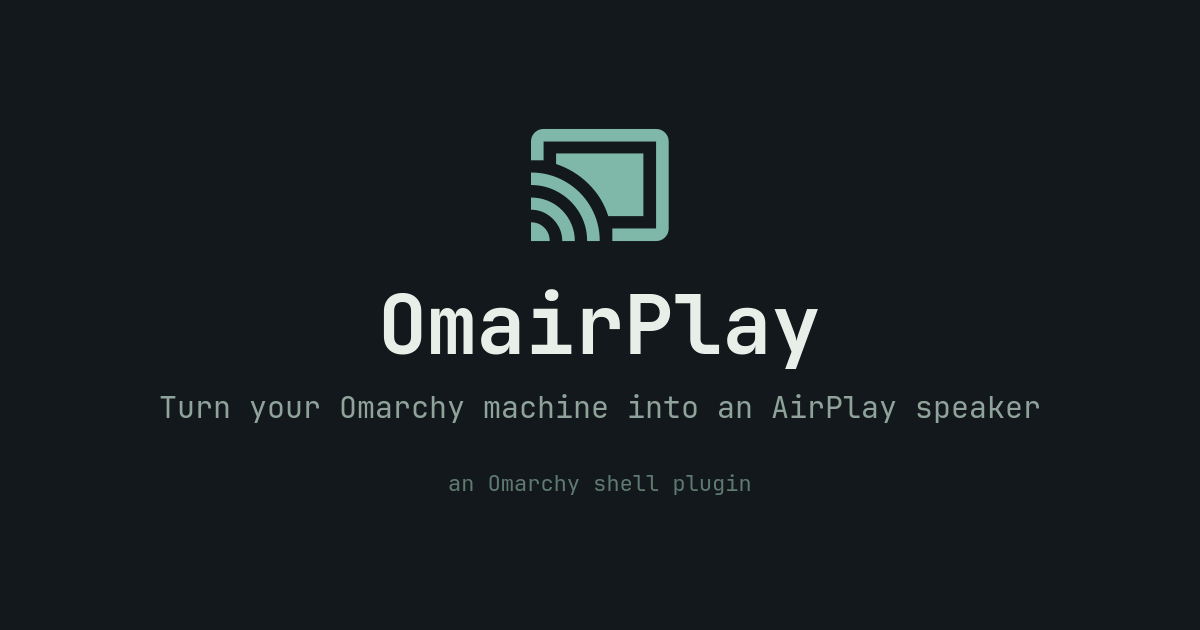
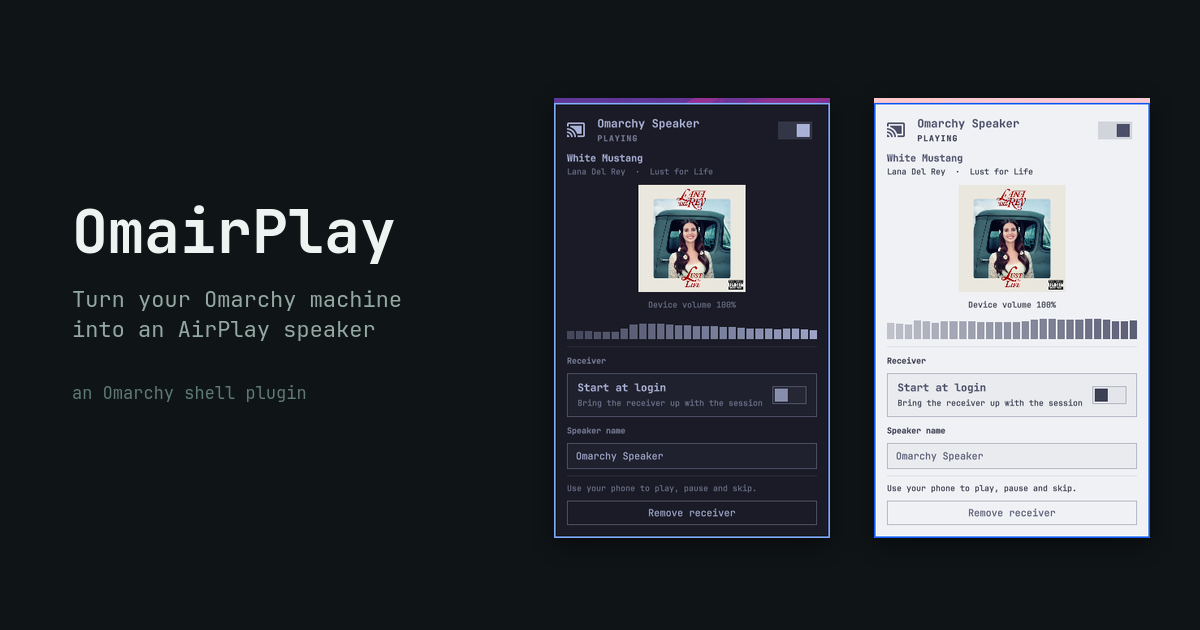
Add amplitude bar, polish docs

Changed region(s): [[0.0617, 0.1508, 0.9558, 0.8746], [0.0617, 0.3317, 0.3392, 0.4222]]

diff --git a/LevelMeter.qml b/LevelMeter.qml
@@ -1,0 +1,167 @@
+import QtQuick
+import Quickshell.Services.Pipewire
+import qs.Commons
+
+// A level meter driven by the receiver's actual audio.
+//
+// Deliberately a level *history* rather than a spectrum. Quickshell exposes
+// PwNodePeakMonitor, which gives amplitude — not frequency content — so bars
+// spread across a frequency axis would be invented data. The same reasoning
+// that keeps transport controls out of this plugin applies here: a graph that
+// looks like it means something it doesn't is worse than no graph. This shows
+// the last couple of seconds of real level, scrolling right to left.
+//
+// Lives in its own file, and entirely on the presentation side, because it is
+// gated on the popup being open — which is a widget concern, not session
+// state. Service.qml does not know or care that this exists.
+Item {
+  id: root
+
+  // Set false and the peak monitor is switched off, the timer stops and the
+  // history is cleared. Nothing here costs anything while the popup is shut.
+  property bool active: false
+  property color foreground: Color.foreground
+  property color accent: Color.accent
+
+  readonly property int barCount: 28
+  readonly property real barGap: Math.max(1, Style.space(2))
+
+  // Present only while the receiver is actually streaming: PipeWire creates the
+  // stream node when playback starts and drops it when it stops.
+  readonly property var streamNode: findStream()
+  readonly property bool live: active && streamNode !== null
+
+  implicitHeight: Style.space(26)
+  visible: live
+  opacity: live ? 1 : 0
+  Behavior on opacity { NumberAnimation { duration: 160; easing.type: Easing.OutQuad } }
+
+  property var levels: emptyLevels()
+  property real _smoothed: 0
+
+  // Peak is a linear amplitude, and peak over a 40ms window of music barely
+  // moves -- measured on a real AirPlay stream it sat between 0.38 and 0.65.
+  // Plotted linearly, or over a wide dB window, every bar comes out the same
+  // height. So map it the way audio meters do -- to decibels -- but over a
+  // deliberately narrow window, with a gamma that spreads the band music
+  // actually occupies across the full height:
+  //
+  //   peak 1.00 -> 1.00      peak 0.50 -> 0.40
+  //   peak 0.80 -> 0.78      peak 0.38 -> 0.24
+  //   peak 0.65 -> 0.60      below -18dB -> 0
+  //
+  // This is undulation, not a dancing spectrum. Those need frequency
+  // separation, and amplitude on its own cannot provide it.
+  readonly property real floorDb: -18
+  function normalise(peak) {
+    if (!(peak > 0)) return 0
+    var db = 20 * Math.log(Math.max(peak, 1e-4)) / Math.LN10
+    var n = (db - floorDb) / -floorDb
+    if (n < 0) n = 0
+    if (n > 1) n = 1
+    return Math.pow(n, 2.2)
+  }
+
+  function emptyLevels() {
+    var a = []
+    for (var i = 0; i < barCount; i++) a.push(0)
+    return a
+  }
+
+  // Match on anything that identifies shairport-sync, because which field
+  // carries the name depends on how the stream was created. Checked
+  // case-insensitively across the node's own labels and its PipeWire
+  // properties.
+  function looksLikeOurs(node) {
+    var candidates = [node.name, node.nickname, node.description]
+    var props = node.properties
+    if (props) {
+      candidates.push(props["application.name"],
+                      props["application.process.binary"],
+                      props["node.name"],
+                      props["media.name"])
+    }
+    for (var i = 0; i < candidates.length; i++) {
+      if (String(candidates[i] || "").toLowerCase().indexOf("shairport") !== -1)
+        return true
+    }
+    return false
+  }
+
+  function findStream() {
+    var nodes = Pipewire.nodes ? Pipewire.nodes.values : []
+    for (var i = 0; i < nodes.length; i++) {
+      var n = nodes[i]
+      if (!n || !n.isStream || !n.audio) continue
+      // For a stream, isSink means it feeds audio into the graph, i.e. playback.
+      if (n.isSink !== true) continue
+      if (looksLikeOurs(n)) return n
+    }
+    return null
+  }
+
+  // Without this the node's properties are not kept live by Quickshell. Same
+  // pattern the first-party audio panel and media service use.
+  PwObjectTracker { objects: root.streamNode ? [root.streamNode] : [] }
+
+  PwNodePeakMonitor {
+    id: peakMonitor
+    node: root.streamNode
+    enabled: root.live
+  }
+
+  // Sampled on a timer rather than bound to `peak`, so the bars are evenly
+  // spaced in time however often PipeWire happens to report.
+  Timer {
+    interval: 40
+    repeat: true
+    running: root.live
+    onTriggered: {
+      var p = peakMonitor.peak
+      if (!isFinite(p) || p < 0) p = 0
+      if (p > 1) p = 1
+      // Rise immediately, fall gently. That asymmetry is what makes a meter
+      // readable instead of a flicker.
+      var v = normalise(p)
+      root._smoothed = Math.max(v, root._smoothed * 0.82)
+      var next = root.levels.slice(1)
+      next.push(root._smoothed)
+      root.levels = next
+    }
+  }
+
+  onLiveChanged: if (!live) { levels = emptyLevels(); _smoothed = 0 }
+
+  Row {
+    anchors.fill: parent
+    spacing: root.barGap
+
+    Repeater {
+      model: root.barCount
+
+      Rectangle {
+        readonly property real level: {
+          var v = root.levels[index]
+          return (v === undefined || !isFinite(v)) ? 0 : Math.max(0, Math.min(1, v))
+        }
+        // A small floor so the strip reads as a meter at rest rather than
+        // disappearing into the background.
+        readonly property real minFraction: 0.06
+
+        width: Math.max(1, (root.width - root.barGap * (root.barCount - 1)) / root.barCount)
+        height: Math.max(1, root.height * (minFraction + level * (1 - minFraction)))
+        anchors.bottom: parent.bottom
+        radius: Style.cornerRadius > 0 ? Math.min(width / 2, Style.space(2)) : 0
+
+        // Newest sample on the right at full strength, fading back through the
+        // history. Reads as motion even in a still screenshot.
+        color: root.foreground
+        opacity: 0.30 + 0.60 * (index / Math.max(1, root.barCount - 1))
+
+        Behavior on height {
+          NumberAnimation { duration: 70; easing.type: Easing.OutQuad }
+        }
+      }
+    }
+  }
+}

diff --git a/Service.qml b/Service.qml
@@ -39,6 +39,7 @@ Item {
     var wanted = String(setting("speakerName", "")).trim()
     return (wanted === "" ? "Omarchy Speaker" : wanted).substring(0, 50)
   }
+  readonly property bool trackNotifications: setting("trackNotifications", true) !== false
   readonly property int refreshIntervalSec: {
     var n = parseInt(String(setting("refreshIntervalSec", 5)), 10)
     if (!isFinite(n)) n = 5
@@ -189,6 +190,64 @@ Item {
       default:        return "Ready"
     }
   }
+
+  // ---------------------------------------------------- track notifications
+  //
+  // Omarchy's own track OSD cannot be used for this. `omarchy.media` does have
+  // one, but it only fires from user-initiated actions through its widget
+  // (Service.qml:429) -- nothing there watches for a track changing on its
+  // own, which is the only way a track ever changes here. And the OSD belongs
+  // to `omarchy.osd`, which a third-party plugin cannot summon: the host
+  // scopes summon() to the plugin's own id (shell.qml pluginOwnsTarget).
+  //
+  // So use a desktop notification. Omarchy's shell owns
+  // org.freedesktop.Notifications, so notify-send produces a native, themed
+  // notification with the cover art as its image.
+  readonly property string trackKey: playing && hasTrack
+    ? (title + "\u001f" + artist + "\u001f" + album) : ""
+
+  property string _notifiedTrack: ""
+  property double _serviceLoadedAt: 0
+
+  onTrackKeyChanged: if (trackNotifications && trackKey !== "") notifyDebounce.restart()
+
+  // shairport-sync delivers metadata in pieces -- title first, then artist,
+  // then cover art -- so reacting to each change would fire three times for one
+  // song. Wait for it to settle. (The freedesktop "synchronous" hint that would
+  // otherwise replace a notification in place is not honoured here; tested, and
+  // three rapid notifications stacked.)
+  Timer {
+    id: notifyDebounce
+    interval: 900
+    repeat: false
+    onTriggered: root.notifyTrackChange()
+  }
+
+  function notifyTrackChange() {
+    if (!trackNotifications || !playing || !hasTrack) return
+    if (trackKey === _notifiedTrack) return
+    _notifiedTrack = trackKey
+
+    // Don't announce whatever was already playing when this service loaded --
+    // a shell restart mid-song should be silent. A grace period rather than a
+    // "first one" flag, so a song that starts later is still announced.
+    if (Date.now() - _serviceLoadedAt < 5000) return
+
+    var args = ["notify-send", "-a", "OmairPlay"]
+    var art = String(artUrl || "")
+    if (art.indexOf("file://") === 0)
+      args.push("-i", decodeURIComponent(art.substring(7)))
+    args.push(title !== "" ? title : "AirPlay")
+
+    var sub = []
+    if (artist !== "") sub.push(artist)
+    if (album !== "" && album !== title) sub.push(album)
+    args.push(sub.join("  \u00b7  "))
+
+    Quickshell.execDetached(args)
+  }
+
+  Component.onCompleted: _serviceLoadedAt = Date.now()
 
   // "Title - Artist", or as much of it as there is.
   readonly property string trackLine: {

diff --git a/BarWidget.qml b/BarWidget.qml
@@ -418,6 +418,16 @@ Panel {
             horizontalAlignment: Text.AlignHCenter
           }
 
+          // A small aesthetic flourish, driven by the receiver's real output
+          // level. Alive only while this popup is open -- see LevelMeter.qml.
+          LevelMeter {
+            width: parent.width
+            active: root.opened && root.svc !== null && root.svc.setupComplete
+                    && root.svc.effectiveRunning && root.svc.playing
+            foreground: root.foreground
+            accent: Color.accent
+          }
+
           // --------------------------------------------------------- alerts
           //
           // Safety rule 4: another shairport-sync holding the AirPlay 2 slot

diff --git a/README.md b/README.md
@@ -67,8 +67,16 @@ The bar icon shows the receiver's state:
 - **Right-click** — turn the receiver on or off without opening anything
 - In the popup: `j`/`k` or arrows to move, `Enter` to activate, `Esc` to close
 
-The popup shows what's playing — title, artist, album, cover art and the
-sending device's volume.
+The popup shows what's playing — title, artist, album, cover art, the sending
+device's volume, and a level meter driven by the receiver's real output. A
+notification with the cover art appears when the track changes.
+
+It takes its colours and font from whichever Omarchy theme you're using:
+
+![The popup under three Omarchy themes](themes.png)
+
+Play, pause and skip stay on your phone: an AirPlay 2 receiver is an output,
+not a remote.
 
 ## Settings
 
@@ -76,11 +84,12 @@ In the popup: **speaker name** and **start at login**.
 
 Renaming restarts the receiver, which interrupts playback, so it asks first.
 
-Two more settings are available via the bar config:
+The rest are available via the bar config:
 
 ```bash
-omarchy bar set io.github.dmatthan.omairplay refreshIntervalSec 5
+omarchy bar set io.github.dmatthan.omairplay trackNotifications false
 omarchy bar set io.github.dmatthan.omairplay showArtwork false
+omarchy bar set io.github.dmatthan.omairplay refreshIntervalSec 5
 omarchy bar move io.github.dmatthan.omairplay --section right
 ```
 
@@ -120,8 +129,11 @@ permissions — this one included. What that means here:
 - Removal validates each recorded rule against the exact shape setup writes,
   and rebuilds the command from the matched fields rather than executing a line
   from a file.
-- Firewall *state* is read from `/etc/ufw/user.rules`, which is world-readable.
-  No privilege is needed or requested to check it.
+- Firewall *state* is read from `/etc/ufw/user.rules`, which is world-readable,
+  so checking it needs no privilege.
+- Your local network is the trust boundary: a device has to be on it to reach
+  the receiver at all. AirPlay 2 itself carries no password mechanism, so keep
+  that in mind on networks you don't control.
 - Nothing is written outside `$HOME`, apart from the packages and the `nqptp`
   system service enabled during setup.
 
